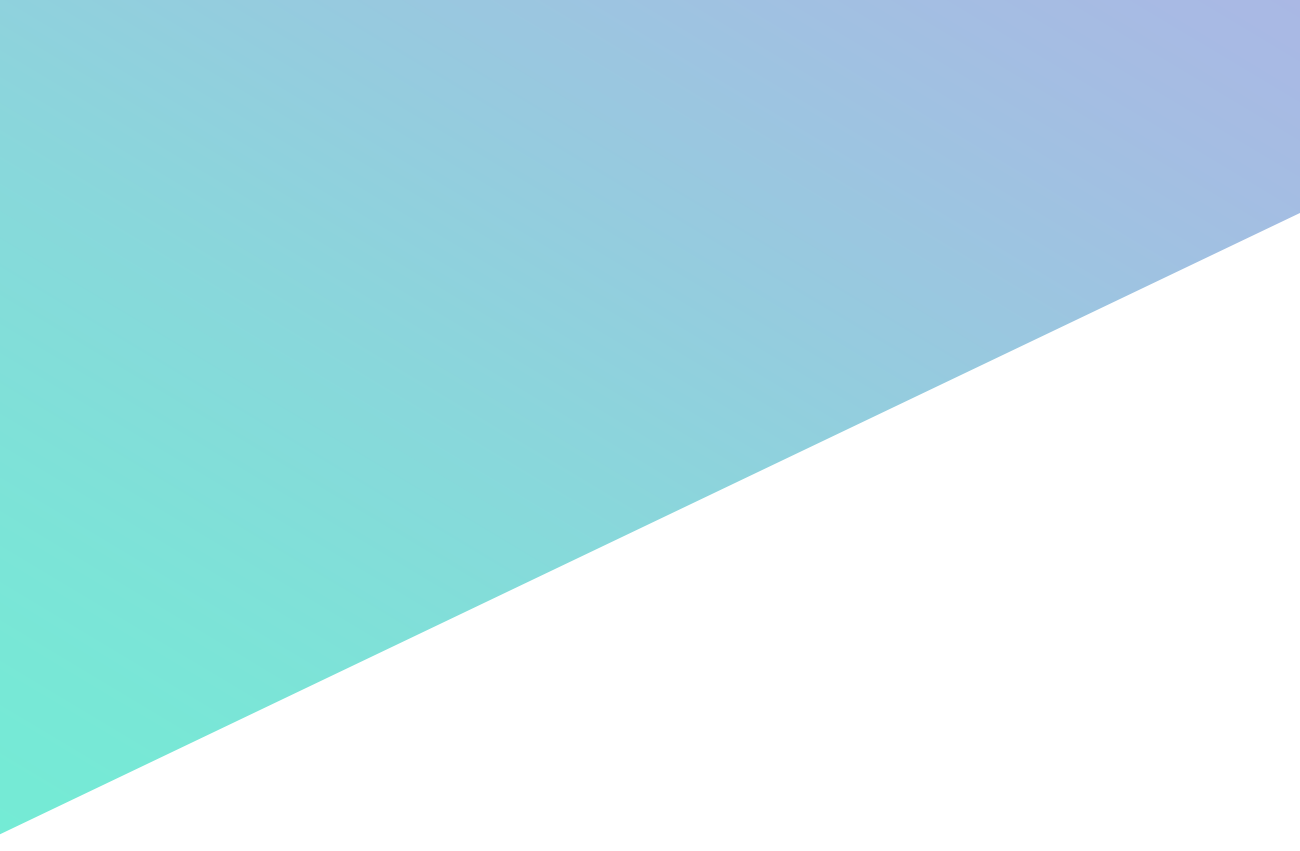
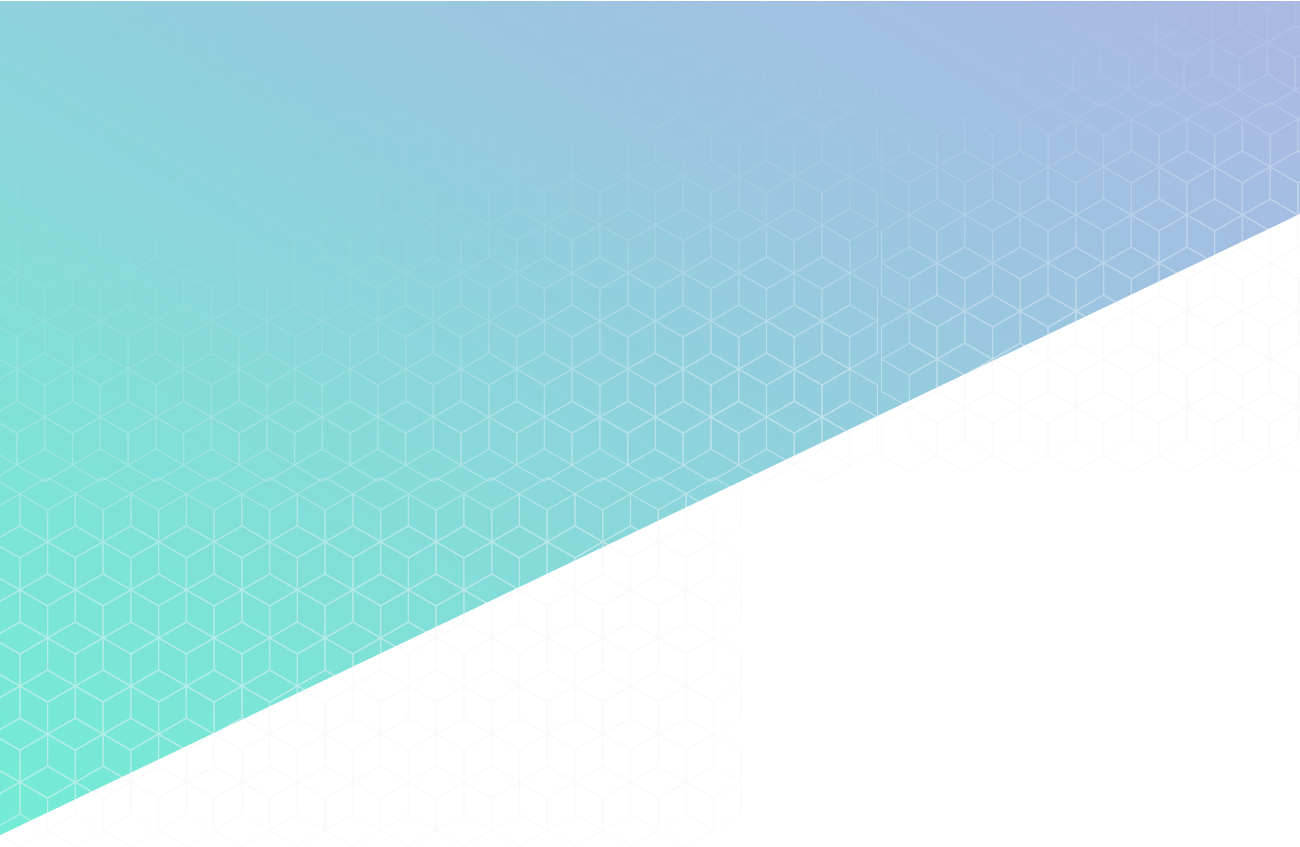
Добавлены стили для второго промо

diff --git a/index.html b/index.html
@@ -175,7 +175,32 @@
   </div>
 
   <div class="container-fluid promo-secondary">
+    <div class="row">
+      <div class="container">
+        <div class="row">
+          <div class="col-xs-12">
+            <ul class="promo-secondary__list">
+              <li class="promo-secondary__item">
+                <p>
+                  <strong>“Школьный Олимп”</strong> - это качественная составляющая 
+                  внутришкольной системы оценки качества образования.<br>
+                  Присоединяйтесь!
+                </p>
 
+                <p>
+                  Призван помогать школам, педагогам и учащимся 
+                  достигать самых впечатляющих результатов на
+                  начальном и основном уровнях общего.
+                </p>
+              </li>
+              <li class="promo-secondary__item"></li>
+              <li class="promo-secondary__item"></li>
+            </ul>
+            <img src="img/mockup/mockup.png" alt="mockup" class="promo-secondary__mockup">
+          </div>
+        </div>
+      </div>
+    </div>
   </div>
 
   <div class="container-fluid news">

diff --git a/css/PControl.css b/css/PControl.css
@@ -271,6 +271,9 @@ ul {
     line-height: 72px;
     margin-right: 80px;
   }
+.news {
+  
+}
 .product {
   display: -webkit-box;
   display: -ms-flexbox;
@@ -304,6 +307,32 @@ ul {
 .product__list li:nth-child(n+2) {
   margin-left: 70px;
 }
+.promo-secondary {
+  height: 855px;
+  margin-top: 90px;
+  position: relative;
+  background: url('../img/mockup/mockup-background.png');
+  background-repeat: no-repeat;
+  background-size: cover;
+}
+.promo-secondary__mockup {
+    position: absolute;
+    top: 110px;
+    right: 0;
+  }
+.promo-secondary__list {
+    margin-top: 120px;
+    width: 445px;
+    height: 185px;
+    font-size: 18px;
+  }
+.promo-secondary__list strong {
+      color:#67509c;
+      font-weight: bold;
+    }
+.promo-secondary__list p {
+      margin-top: 15px;
+    }
 .place {
   position: relative;
 }
@@ -476,6 +505,7 @@ ul {
       -ms-flex-direction: column;
           flex-direction: column;
   height: 595px;
+  margin-top: 180px;
   background: url('../img/review/review-background.png');
   background-repeat: no-repeat;
   background-size: cover;

diff --git a/PControl/block/promo-secondary.css b/PControl/block/promo-secondary.css
@@ -1,0 +1,29 @@
+.promo-secondary {
+  height: 855px;
+  margin-top: 90px;
+  position: relative;
+  background: url('../img/mockup/mockup-background.png');
+  background-repeat: no-repeat;
+  background-size: cover;
+
+  &__mockup {
+    position: absolute;
+    top: 110px;
+    right: 0;
+  }
+
+  &__list {
+    margin-top: 120px;
+    size: 445px 185px;
+    font-size: 18px;
+
+    strong {
+      color:var(--purple);
+      font-weight: bold;
+    }
+
+    p {
+      margin-top: 15px;
+    }
+  }
+}

diff --git a/PControl/block/reviews.css b/PControl/block/reviews.css
@@ -2,6 +2,7 @@
   @apply --centerH;
   flex-direction: column;
   height: 595px;
+  margin-top: 180px;
   background: url('../img/review/review-background.png');
   background-repeat: no-repeat;
   background-size: cover;

diff --git a/PControl/block/news.css b/PControl/block/news.css
@@ -1,0 +1,3 @@
+.news {
+  
+}
